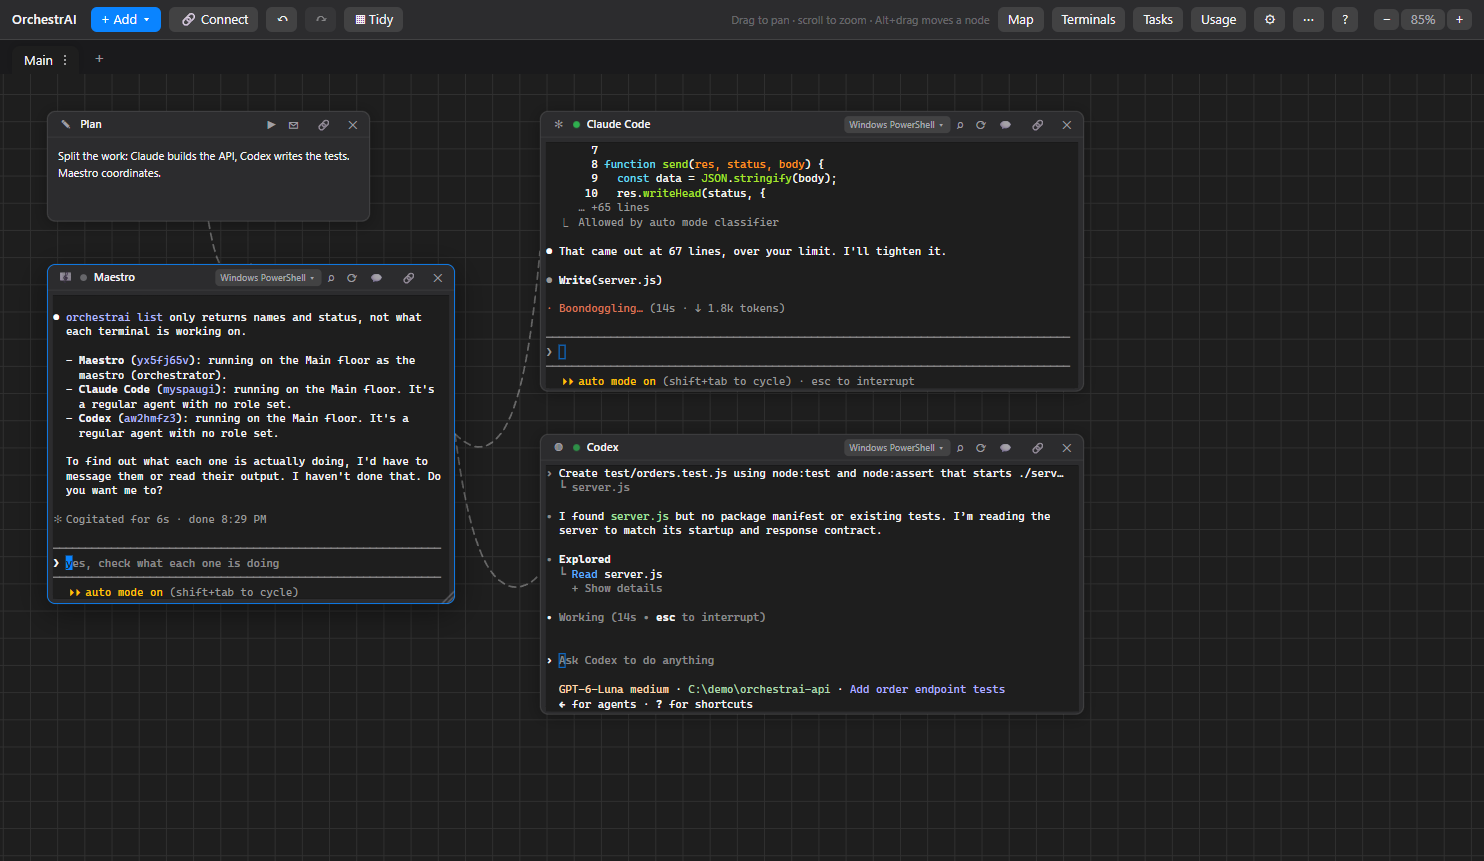
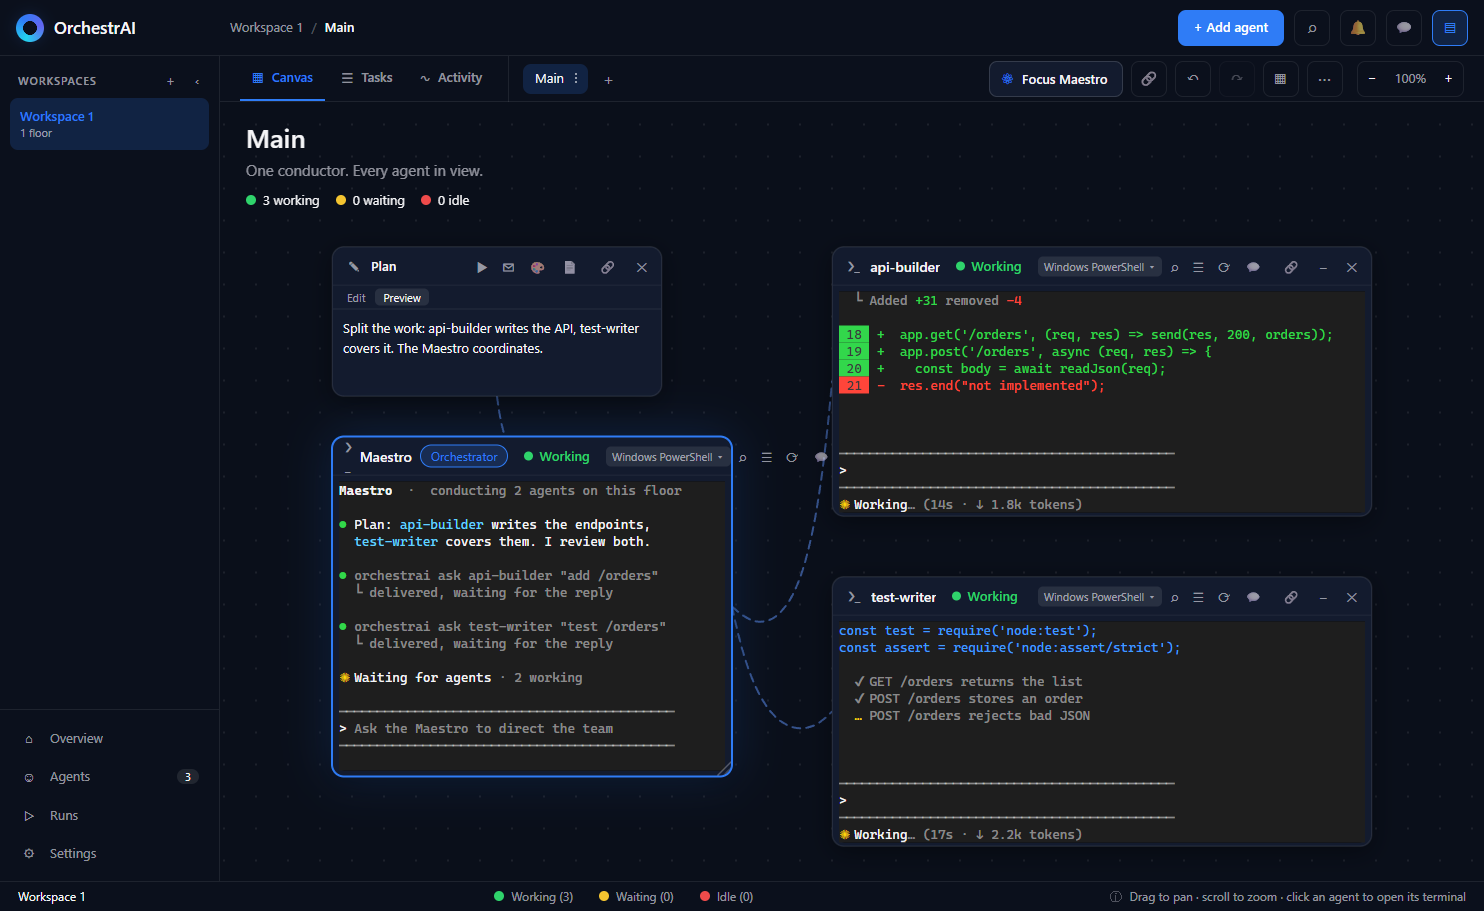
docs: refresh README screenshots with the new interface

Changed region(s): [[0.0, 0.0, 1.0, 0.9965]]

diff --git a/README.md b/README.md
@@ -9,7 +9,7 @@
 
 > Independent open-source project. It is not affiliated with or endorsed by any similar product.
 
-![A Maestro terminal conducting Claude Code and Codex terminals, connected by ropes, with a planning note](docs/images/canvas.png)
+![A Maestro terminal directing two agent terminals, connected by ropes, with a planning note](docs/images/canvas.png)
 
 ## Why OrchestrAI
 - **Unlimited workspaces, free.** Create as many floors (separate canvases, each with its own folder, optionally an isolated git worktree) and as many terminals and nodes as your machine can handle. No workspace caps, no paid tiers, no license keys.
@@ -47,9 +47,9 @@ If you launch from a VS Code or Claude Code shell, unset `ELECTRON_RUN_AS_NODE` 
 Download an installer from the [releases page](https://github.com/adaumsilva/OrchestrAI/releases) (Windows, macOS, Linux), or build one yourself: see [docs/PACKAGING.md](docs/PACKAGING.md). Builds are not code-signed yet, so your OS will ask you to confirm the first launch.
 
 ## Screenshots
-![Task manager showing Claude Code and Codex running, with CPU, memory, tokens and limits](docs/images/tasks.png)
+![Task manager listing the running terminals with status, CPU, memory, uptime and controls](docs/images/tasks.png)
 
-![The terminal settings sheet](docs/images/terminal-sheet.png)
+![The new terminal sheet with quick-start presets](docs/images/terminal-sheet.png)
 
 ## Contributing
 Contributions are welcome, including your first one.
